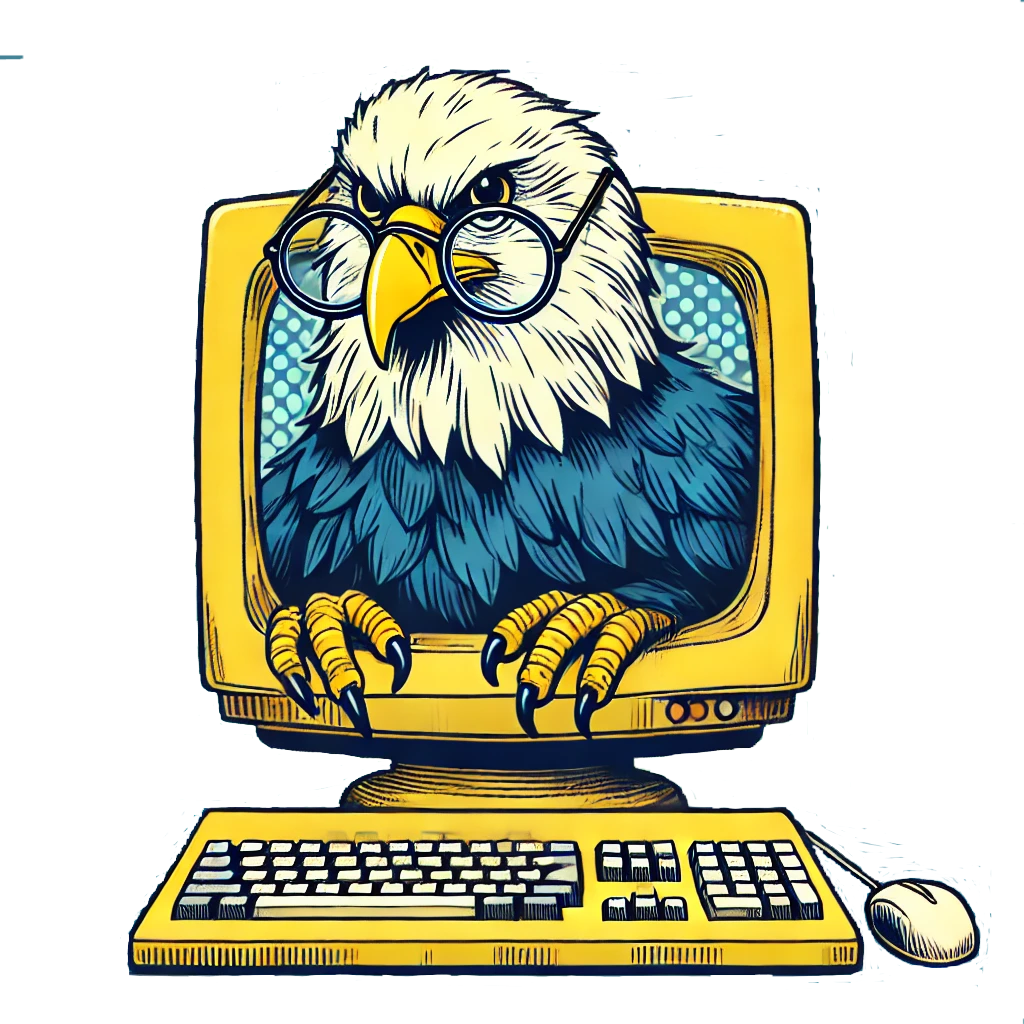
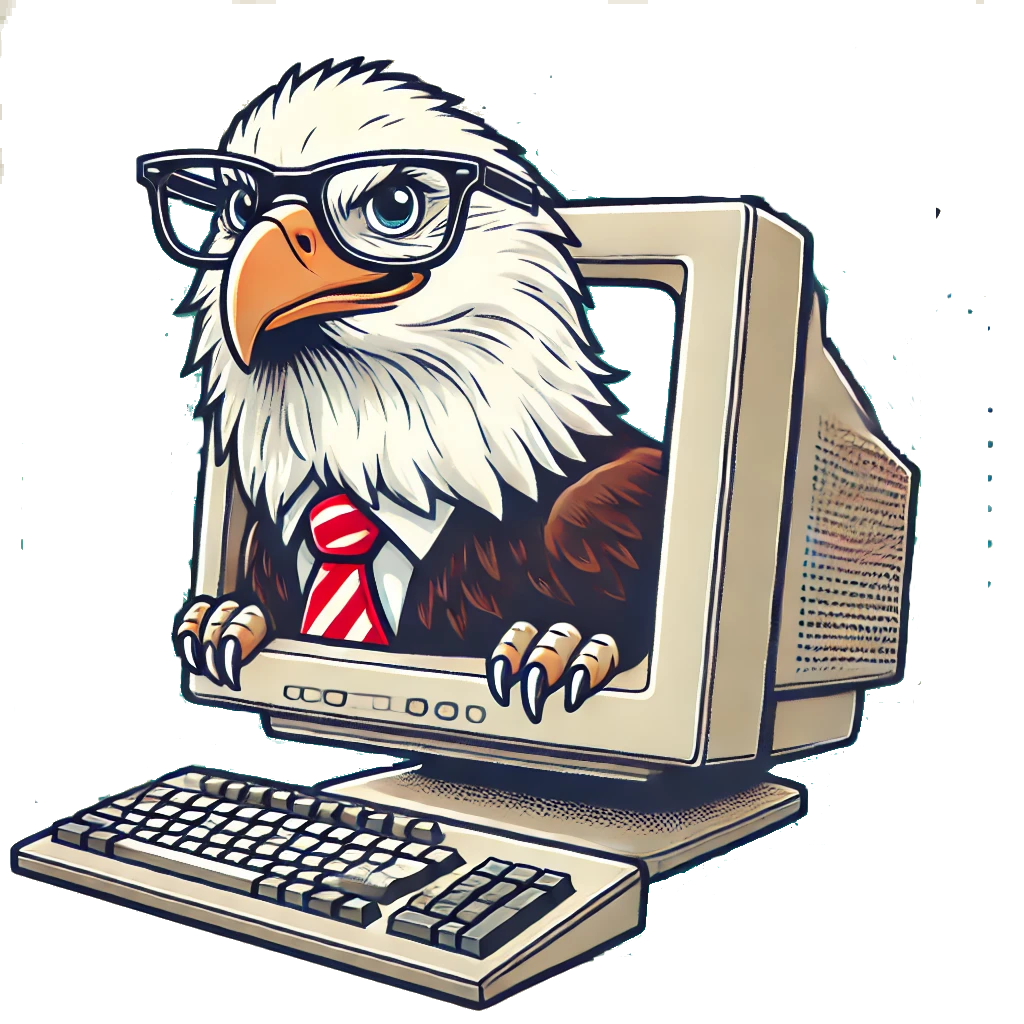
Dienstleistungen hinzugefügt

diff --git a/css/styles.css b/css/styles.css
@@ -4,7 +4,7 @@ body {
     height:100%;
     margin: 0; /* Entfernt standardmäßige Ränder des Browsers */
     padding: 0; /* Entfernt standardmäßige Auffüllung des Browsers */
-    background-color: #3670a3; /* Setzt den Hintergrund des gesamten Dokuments auf eine blaue Farbe */
+    background-color: #A9A9A9 ; /* Setzt den Hintergrund des gesamten Dokuments auf eine blaue Farbe */
     display: flex;
     flex-direction: column; /* Stellt sicher, dass der Footer am unteren Ende ist */
 }
@@ -15,7 +15,7 @@ header {
     display: flex; /* Verwendet Flexbox, um die Elemente im Header zu organisieren */
     justify-content: center; /* Zentriert den Text horizontal im Header */
     align-items: center; /* Zentriert den Text vertikal im Header */
-    color: white; /* Setzt die Textfarbe auf weiß */
+    color: #EAEAEA; /* Setzt die Textfarbe auf weiß */
     text-align: center; /* Zentriert den Text innerhalb des Containers */
     padding: 10px 20px; /* Fügt dem Header etwas Innenabstand hinzu (10px oben und unten, 20px links und rechts) */
 }
@@ -41,8 +41,8 @@ header h1 {
 }
     .speech-bubble {
         position: absolute;
-        background: white;
-        color: #333;
+        background:  #585858;
+        color: #EAEAEA;
         padding: 10px 10px;
         right: 170px;
         border-radius: 10px;
@@ -63,7 +63,7 @@ header h1 {
         height: 0;
         border-top: 10px solid transparent;
         border-bottom: 10px solid transparent;
-        border-left: 10px solid #ffcc00; /* Linke Grenze = gefärbter Pfeil */
+        border-left: 10px solid #A52A2A; /* Linke Grenze = gefärbter Pfeil */
       }
 
 
@@ -125,68 +125,110 @@ img:hover {
 nav {
     display: flex; /* Verwendet Flexbox für die Navigation */
     justify-content: center; /* Zentriert die Navigationslinks horizontal */
-    background-color: #efbf37; /* Setzt den Hintergrund der Navigation auf Gelb */
+    background-color: #A52A2A; /* Setzt den Hintergrund der Navigation auf Gelb */
+    margin-bottom: 20px;
 }
 
 nav a {
-    color: white; /* Setzt die Textfarbe der Links auf weiß */
+    color: #EAEAEA; /* Setzt die Textfarbe der Links auf weiß */
     padding: 14px 20px; /* Fügt den Links Innenabstände hinzu (14px oben und unten, 20px links und rechts) */
     text-decoration: none; /* Entfernt die Unterstreichung von Links */
     text-align: center; /* Zentriert den Text innerhalb des Links */
 }
 
 nav a:hover {
-    background-color: #575757; /* Setzt den Hintergrund auf Grau, wenn der Benutzer mit der Maus über den Link fährt */
+    background-color: #FF914D; /* Setzt den Hintergrund auf Grau, wenn der Benutzer mit der Maus über den Link fährt */
 }
+
+.großer-absatz {
+    margin-bottom: 50px;
+  }
+  .kleiner-absatz {
+    margin-bottom: 30px;
+  }
 
 /* Main Content */
 .main-content {
     display: flex; /* Verwendet Flexbox für die Hauptinhalte */
-    margin: 40px; /* Fügt der Hauptsektion Innenabstände hinzu */ 
-    align-items: center; /* Zentriert den Inhalt vertikal */
+    align-items: space-between; 
+    flex-wrap: wrap;
+    width: 100%; /* Setzt die Breite auf 100% des Elternelements */
+    margin: 0 auto;
 }
+  
 
 /* Retro Monitor */
 .retro-monitor {
-    flex: 1;
-    margin: 20px;
+    flex: 1 1;
+    margin: 10px;
     padding:10px;
-    height: 160px;
-    background-color: white; /* Setzt den Hintergrund der Retro-Monitore auf weiß */
-    border: 10px solid #efbf37; /* Fügt einen gelben Rand hinzu */
+    min-height: 140px;
+    height: auto; /* Passt sich automatisch an den Inhalt an */
+    background-color:  #585858; /* Setzt den Hintergrund der Retro-Monitore auf weiß */
+    border: 8px solid #A52A2A; /* Fügt einen gelben Rand hinzu */
     border-radius: 15px; /* Abgerundete Ecken für die Retro-Monitore */
-    box-shadow: 0 4px 15px rgba(0, 0, 102, 0.4); /* Fügt einen Schatteneffekt hinzu */
+    box-shadow: 0 10px 15px #87AFC7; /* Fügt einen Schatteneffekt hinzu */
     font-family: 'Courier New', Courier, monospace; /* Setzt die Schriftart auf 'Courier New' für Retro-Optik */
 }
 
 /* Headline */
-.retro-monitor h2 {
-    font-size: 1.5rem; /* Setzt die Schriftgröße der Überschrift */
-    color: #333; /* Setzt die Textfarbe auf Dunkelgrau */
+
+.retro-monitor h3,
+.retro-monitor h2,
+.retro-monitor ul,
+.retro-monitor p {
+    font-size: 1rem; /* Setzt die Schriftgröße */
+    color: #EAEAEA; /* Setzt die Textfarbe */
 }
 
-.retro-monitor p {
-    color: #666; /* Setzt die Textfarbe für Absätze auf helleres Grau */
-    line-height: 1.5; /* Setzt den Zeilenabstand auf 1.5 */
+.callToAction h2,
+.callToAction p
+{
+    color: #EAEAEA;
+    text-align: center;
+    margin: 40px;
+}
+
+table {
+    width: 80%;
+    color: #EAEAEA;
+    background-color:  #585858; 
+    margin-left: auto;
+    margin-right: auto;
+    margin-bottom: 20px;
+    border: 8px solid #A52A2A; /* Fügt einen gelben Rand hinzu */
+    border-radius: 15px; /* Abgerundete Ecken */
+    box-shadow: 0 10px 15px #87AFC7; /* Fügt einen Schatteneffekt hinzu */
+    border-spacing: 0; /* Verhindert einen Abstand zwischen den Zellen */
+    font-family: 'Courier New', Courier, monospace; /* Setzt die Schriftart auf 'Courier New' für Retro-Optik */
+}
+th, td {
+    border: 1px solid #A52A2A;
+    padding: 8px;
+    text-align: left;
+}
+th {
+    background-color:  #585858; /* Kopfzeilen etwas dunkler */
 }
 
 .content {
     max-width: 1000px;
     margin: 20px auto;
-    background-color: #efbf37;
+    color: #EAEAEA;
+    background-color: #A52A2A;
     display: block;
     text-align: justify; /* Text wird blockweise verteilt */
     padding: 20px;
     border-radius: 8px;
-    box-shadow: 0 4px 8px rgba(0, 0, 0, 0.1);
+    box-shadow: 0 10px 8px #87AFC7;
     font-family: 'Courier New', Courier, monospace; /* Setzt die Schriftart auf 'Courier New' für Retro-Optik */
     opacity: 0.8; /* Setzt die Transparenz auf 50% */
 }
 
 /* Footer */
 footer {
-    background-color:#efbf37; /* Setzt den Hintergrund des Footers auf Gelb */
-    color: white; /* Setzt die Textfarbe im Footer auf Weiß */
+    background-color:#A52A2A; /* Setzt den Hintergrund des Footers auf Gelb */
+    color: #EAEAEA; /* Setzt die Textfarbe im Footer auf Weiß */
     text-align: center; /* Zentriert den Text im Footer */
     padding: 10px 0; /* Fügt dem Footer Innenabstände hinzu */
     /*position: fixed; /* Macht den Footer fest, damit er immer unten bleibt */

diff --git a/index.html b/index.html
@@ -12,17 +12,17 @@
         <div class="contact-info">
             <p>Tel. +49 123 4567890</p>
         </div>
-        <div class = "text">
+        <div class="text">
             <h1>MyTechAssist</h1>
             <p>IT-Support und Software-Lösungen für Unternehmen und Privatkunden</p>
         </div>
-        <div class ="speech-bubble">Hallo! Wie kann ich helfen? <b> (Live Support)</b> </div>
+        <div class="speech-bubble">Hallo! Wie kann ich helfen? <b> (Live Support)</b> </div>
         <img src="images/adler.png" alt="Logo" class="logo">
     </header>
 
     <nav>
-        <a href="#">Startseite</a>
-        <a href="#">Dienstleistungen</a>
+        <a href="index.html">Startseite</a>
+        <a href="dienstleistungen.html">Dienstleistungen</a>
         <a href="#">Über uns</a>
         <a href="#">Kontakt</a>
     </nav>
@@ -41,19 +41,61 @@
             <p>Wir entwickeln individuelle Software-Lösungen, die speziell auf die Bedürfnisse Ihrer Organisation oder persönlichen Anforderungen abgestimmt sind.</p>
         </div>
     </div>
+   
+    <div class ="callToAction">
+     <h2>„Qualität muss nicht teuer sein – Überzeugen Sie sich selbst von unserem fairen Preis-Leistungs-Verhältnis!“</h2>
+    </div>
 
+    <table border="1">
+        <tr>
+            <th>Kategorie</th>
+            <th>Leistung</th>
+            <th>Preis</th>
+        </tr>
+        <tr>
+            <td rowspan="4">Fixpreise für IT-Probleme</td>
+            <td>Fehlerbehebung Software (PC/Mac)</td>
+            <td>29€</td>
+        </tr>
+        <tr>
+            <td>Druckerprobleme lösen</td>
+            <td>39€</td>
+        </tr>
+        <tr>
+            <td>E-Mail-Probleme (Einrichten, Reparatur)</td>
+            <td>29€</td>
+        </tr>
+        <tr>
+            <td>Netzwerkfehler (Einfach)</td>
+            <td>49€</td>
+        </tr>
+        <tr>
+            <td rowspan="2">Paketpreise</td>
+            <td>3 Support-Sitzungen für Privatkunden (Je 1 Stunde)</td>
+            <td>99€</td>
+        </tr>
+        <tr>
+            <td>Wartungspaket für kleine Unternehmen (Monatlich)</td>
+            <td>199€/Monat</td>
+        </tr>
+        <tr>
+            <td>Stundenpreise</td>
+            <td>IT-Support nach Stunden</td>
+            <td>40€/Stunde</td>
+        </tr>
+    </table>
+    
     <div class="content">
         <h2>Frisch, flexibel und engagiert</h2>
-        <p>Auch wenn mein IT-Support-Business gerade frisch gestartet ist, bringe ich die Leidenschaft und Motivation mit, Ihre IT-Herausforderungen schnell und effektiv zu lösen. Mein Informatikstudium stehe kurz vor dem Abschluss und hat mir die nötigen technischen Fähigkeiten und das tiefgehende Verständnis für IT-Probleme vermittelt. Zudem verfüge ich über langjährige Erfahrung im Kundensupport, was mir hilft, auf Ihre Bedürfnisse schnell und professionell einzugehen.</p>
+        <p>Auch wenn mein IT-Support-Business gerade frisch gestartet ist, bringe ich die Leidenschaft und Motivation mit, Ihre IT-Herausforderungen schnell und effektiv zu lösen. Mein Informatikstudium steht kurz vor dem Abschluss und hat mir die nötigen technischen Fähigkeiten und das tiefgehende Verständnis für IT-Probleme vermittelt. Zudem verfüge ich über langjährige Erfahrung im Kundensupport, was mir hilft, auf Ihre Bedürfnisse schnell und professionell einzugehen.</p>
 
-        <p>Ich verstehe, wie frustrierend es sein kann, mit IT-Problemen konfrontiert zu werden, und deshalb setze ich alles daran, Ihnen so schnell wie möglich zu helfen. Jede Anfrage wird von mir individuell behandelt – bei mir ist der Kunde keine Nummer, sondern ein Partner.</p>
+        <p>Ich verstehe, wie frustrierend es sein kann, mit IT-Problemen konfrontiert zu werden und deshalb setze ich alles daran, Ihnen so schnell wie möglich zu helfen. Jede Anfrage wird von mir individuell behandelt – bei mir ist der Kunde keine Nummer, sondern ein Partner.</p>
 
-        <p>Lassen Sie uns gemeinsam Ihre IT-Probleme angehen. Ihre Zufriedenheit und Ihr Vertrauen stehen für mich an erster Stelle, und ich freue mich darauf, mit Ihnen zusammenzuarbeiten!</p>
+        <p>Lassen Sie uns gemeinsam Ihre IT-Probleme angehen. Ihre Zufriedenheit und Ihr Vertrauen stehen für mich an erster Stelle und ich freue mich darauf, mit Ihnen zusammenzuarbeiten!</p>
     </div>
     
     <footer>
         <p>&copy; 2025 MyTechAssist | Alle Rechte vorbehalten</p>
     </footer>
-
 </body>
 </html>

diff --git a/dienstleistungen.html b/dienstleistungen.html
@@ -1,0 +1,91 @@
+<!DOCTYPE html>
+<html lang="de">
+<head>
+    <meta charset="UTF-8">
+    <meta name="viewport" content="width=device-width, initial-scale=1.0">
+    <title>MyTechAssist – IT-Support und Software-Lösungen</title>
+    <link rel="stylesheet" href="css/styles.css">
+</head>
+<body>
+
+    <header>
+        <div class="contact-info">
+            <p>Tel. +49 123 4567890</p>
+        </div>
+        <div class="text">
+            <h1>MyTechAssist</h1>
+            <p>IT-Support und Software-Lösungen für Unternehmen und Privatkunden</p>
+        </div>
+        <div class="speech-bubble">Hallo! Wie kann ich helfen? <b>(Live Support)</b></div>
+        <img src="images/adler.png" alt="Logo" class="logo">
+    </header>
+
+    <nav>
+        <a href="index.html">Startseite</a>
+        <a href="dienstleistungen.html">Dienstleistungen</a>
+        <a href="#">Über uns</a>
+        <a href="#">Kontakt</a>
+    </nav>
+    
+    <div class ="callToAction">
+        <h2>Dienstleistungen & Preise</h2>
+        <p>Willkommen bei unserem IT-Support! Wir bieten schnelle und zuverlässige Lösungen für IT-Probleme.</p>
+    </div>    
+    <div class="main-content">
+        <div class="retro-monitor">
+            <h3>Fixpreise für IT-Probleme</h3>
+            <ul>
+                <li><b>Fehlerbehebung Software (PC/Mac) – 29€</b><br>Softwarefehler, Kompatibilitätsprobleme und Programmabstürze.</li>
+                <li><b>Druckerprobleme lösen – 39€</b><br>Installation, Fehlerbehebung oder Konfiguration Ihres Druckers.</li>
+                <li><b>E-Mail-Probleme – 29€</b><br>Einrichten, Reparatur und Synchronisation von E-Mail-Diensten.</li>
+                <li><b>Netzwerkfehler – 49€</b><br>WLAN-Optimierung und Router-Konfiguration.</li>
+            </ul>
+            </div>
+            
+           <div class="retro-monitor">
+            <h3>Paketpreise</h3>
+            <ul>
+                <li><b>3 Support-Sitzungen (Je 1 Stunde) – 99€</b><br>Individuelle Problemlösung für PC, Mac und Netzwerk.</li>
+                <li><b>Wartungspaket für kleine Unternehmen – 199€/Monat</b><br>Monatlicher IT-Support mit Fehlerbehebungen & Updates.</li>
+            </ul>
+            </div>
+
+            <div class="retro-monitor">
+            <h3>Stundenpreise</h3>
+            <ul>
+                <li><b>IT-Support nach Stunden – 40€/Stunde</b><br>Flexible Unterstützung nach Bedarf.</li>
+            </ul>
+        </div>
+    </div>
+
+    <div class ="callToAction">
+            <h2>Softwarelösungen & individuelle Services</h2>
+            <p>Neben klassischem IT-Support bieten wir auch individuelle Softwarelösungen an:</p>
+        </div>
+       
+        <div class="main-content">
+        <div class="retro-monitor">
+            <h3>Website-Erstellung & Wartung</h3>
+            <ul>
+                <li><b>Einfache Website (Landingpage) – ab 299€</b></li>
+                <li><b>Individuelle Webentwicklung (CMS, E-Commerce) – ab 2.000€</b></li>
+            </ul>
+        </div>
+
+        <div class="retro-monitor">
+            <h3>Cloud-Lösungen & Backup-Strategien</h3>
+            <ul>
+                <li><b>Cloud-Speicher-Einrichtung & Sicherung (Privatkunden) – ab 49€</b></li>
+                <li><b>Cloud-Backup & Datenmigration (Unternehmen) – ab 149€</b></li>
+                <li><b>Individuelle Cloud-Strategien & Wartung – auf Anfrage</b></li>
+            </ul>
+        </div>
+    </div>
+   
+
+    <footer>
+        <p>&copy; 2025 MyTechAssist | Alle Rechte vorbehalten</p>
+    </footer>
+
+</body>
+</html>
